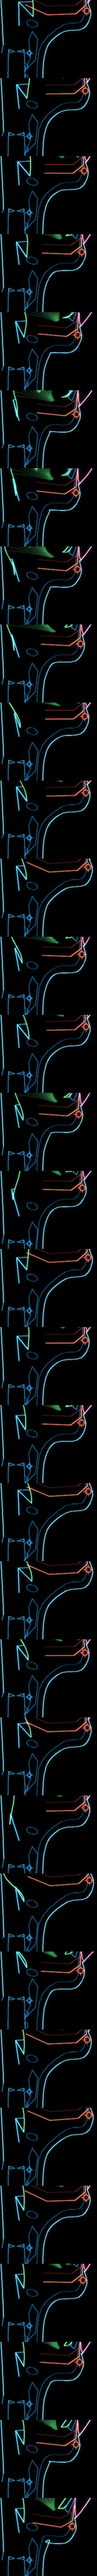
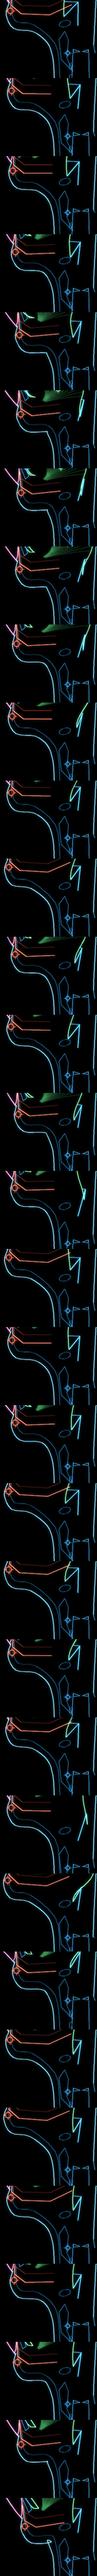
Face the head left, in toward the controls
The face screen is on the right, so the profile now looks left (FACE_LEFT
in make_skin.py mirrors the engine's right-facing outlines). The Jaw, Lips
and Velum readouts and the BODY credit move to the left of the neck, in
front of it.

Changed region(s): [[0.0, 0.0, 1.0, 1.0]]

diff --git a/tools/make_skin.py b/tools/make_skin.py
@@ -88,7 +88,8 @@ DIAL = 64                                # dial film-strip frame (ring radius 21
 KNOB_FRAMES = 33
 HEAD_BOX = (SX + 2, TOP + 28, SW - 4, BOT - TOP - 30)   # where the head is drawn: 682 80 584 540
 FACE_SCALE = 27.0                        # px per cm
-VIEW_X0, VIEW_Y1 = -6.2, 18.6            # body cm at HEAD_BOX's top-left corner
+VIEW_X0, VIEW_Y1 = -6.2, 18.6            # body cm at HEAD_BOX's top-left corner (before mirroring)
+FACE_LEFT = True                         # the head faces left, in toward the controls (the screen is on the right)
 MAIN_BTN = (12, 4, 150, 40)              # the page's main button (amber)
 PAGE_CHIPS_X = 170                       # the page's own chips start here
 MODE_CHIPS = [("SING", 552, 104), ("PLAY", 664, 104), ("SPEAK", 776, 104), ("BEATBOX", 888, 128)]
@@ -376,8 +377,9 @@ def caption(text, px, color, track=0.1, o=1.0, path=None):
 # The face (design.md B.6, step 1)
 # --------------------------------------------------------------------------------------------
 def hp(p):
-    """body cm -> px inside HEAD_BOX"""
-    return ((p[0] - VIEW_X0) * FACE_SCALE, (VIEW_Y1 - p[1]) * FACE_SCALE)
+    """body cm -> px inside HEAD_BOX (mirrored when FACE_LEFT: the engine's profile faces right)"""
+    x = (p[0] - VIEW_X0) * FACE_SCALE
+    return (HEAD_BOX[2] - x if FACE_LEFT else x, (VIEW_Y1 - p[1]) * FACE_SCALE)
 
 
 def chaikin(pts, it=1):
@@ -886,9 +888,11 @@ def face_screen(b, ch, page, face):
     if page.get("readouts"):
         # the slot readouts under the chin (design.md B.3), as live values of the knobs that set them;
         # TONGUE (nearest vowel) needs a new display parameter and is left for step 2
-        bx, by = SX + 330, TOP + 452
+        # in front of the neck: right of it when the head faces right, left of it when it faces left
+        bx, by = (SX + 14 if FACE_LEFT else SX + 330), TOP + 452
+        cells = ((bx, by), (bx + 128, by + 58), (bx, by + 58)) if FACE_LEFT else ((bx + 128, by), (bx, by + 58), (bx + 128, by + 58))
         for (lab, unit, pname, slot), (cx, cy) in zip((("JAW", "CM", "Jaw", 1), ("LIPS", "CM", "Lips Open", 2), ("VELUM", "CM2", "Soft Palate", 3)),
-                                                      ((bx + 128, by), (bx, by + 58), (bx + 128, by + 58))):
+                                                      cells):
             color = SLOTS[slot]
             fdot, dx, dy = baked(("dot", lab, unit, color), 120, 20, lambda ink, mm, lab=lab, unit=unit, color=color: (
                 ink.circle(mm + 5, mm + 7, 4.5, color, fill=True),
@@ -896,8 +900,10 @@ def face_screen(b, ch, page, face):
             b.pic(ch, fdot, cx + dx, cy + dy)
             b.label(ch, params[pname], (cx - 2, cy + 15, 126, 42), 34, light(color), "left verticallyCentred")
     if page.get("credit"):
-        b.cap(ch, SX + SW - 16, TOP + 470, "VOICE: CHIMERA", 12, QUIET, "r", 0.1)
-        b.cap(ch, SX + SW - 16, TOP + 490, "BY JAMESON HODGE (MIT)", 12, QUIET, "r", 0.1)
+        # in front of the neck, like the readouts
+        cx, just = (SX + 16, "l") if FACE_LEFT else (SX + SW - 16, "r")
+        b.cap(ch, cx, TOP + 470, "VOICE: CHIMERA", 12, QUIET, just, 0.1)
+        b.cap(ch, cx, TOP + 490, "BY JAMESON HODGE (MIT)", 12, QUIET, just, 0.1)
     if page.get("left") == "steps":
         # the beat's name and tempo at the top right (the hit symbol and step need new parameters: step 2)
         b.label(ch, params["Beat"], (SX + SW - 300, TOP + 38, 284, 30), 22.0, AMBER, "right verticallyCentred", "Regular")
